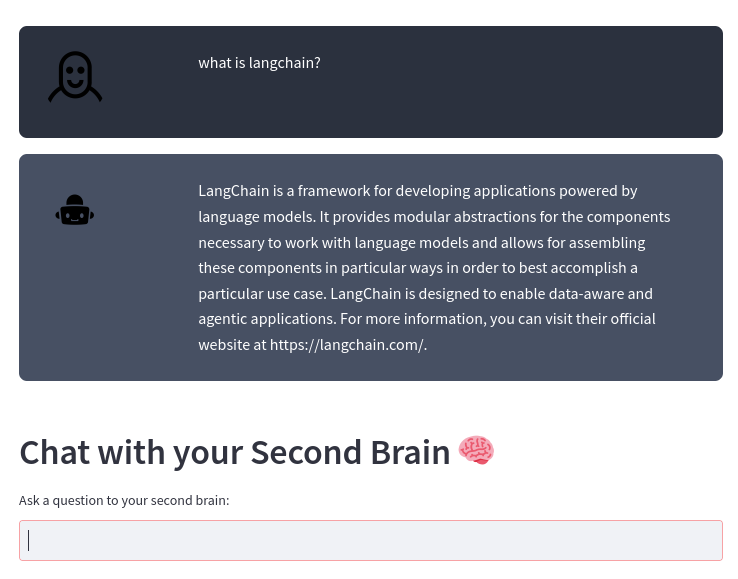
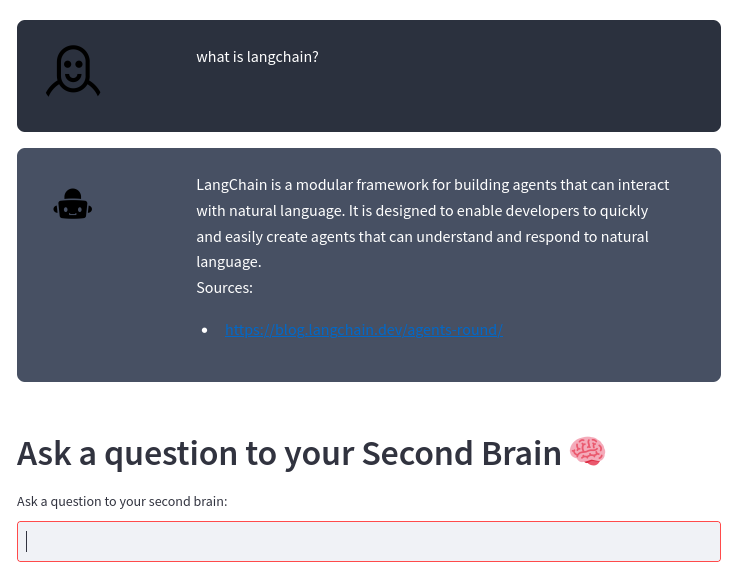
ui: display the question from the user before the answer from the agent

diff --git a/second_brain_agent.py b/second_brain_agent.py
@@ -7,7 +7,7 @@ closest documents stored in the vector database as context.
 import streamlit as st
 from dotenv import load_dotenv
 
-from htmlTemplates import css, user_template
+from htmlTemplates import bot_template, css, user_template
 from lib import Agent
 
 
@@ -15,7 +15,8 @@ def handle_userinput(user_question):
     "Handle the input from the user as a question to the LLM"
     response = st.session_state.agent.html_question(user_question)
     st.write(
-        user_template.replace("{{MSG}}", response),
+        user_template.replace("{{MSG}}", user_question),
+        bot_template.replace("{{MSG}}", response),
         unsafe_allow_html=True,
     )
 
